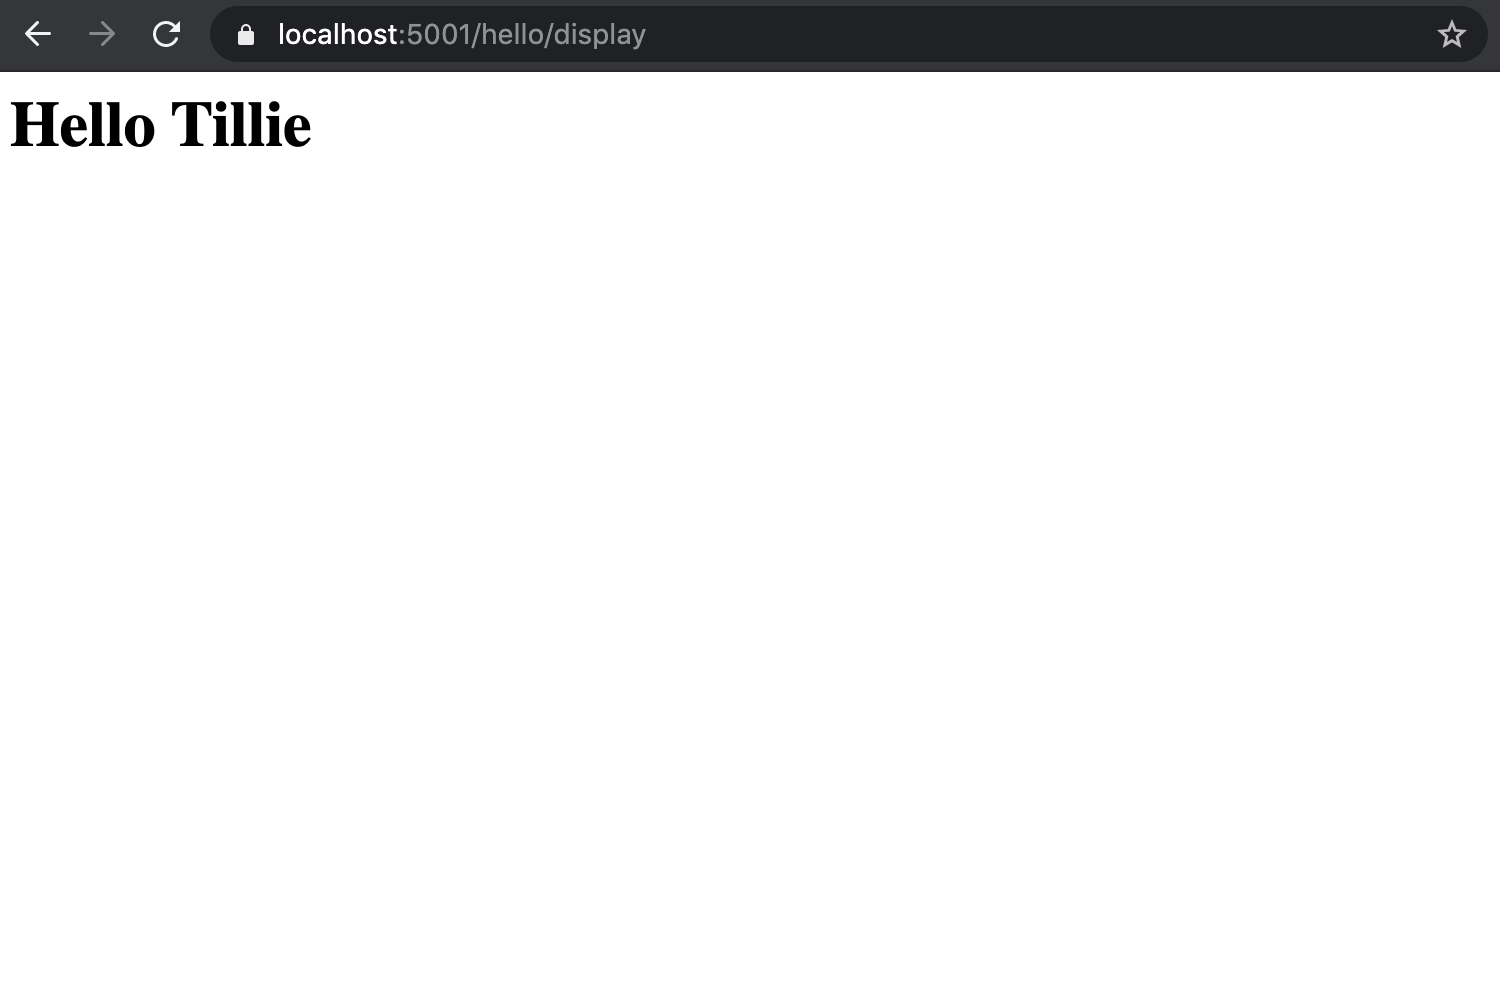
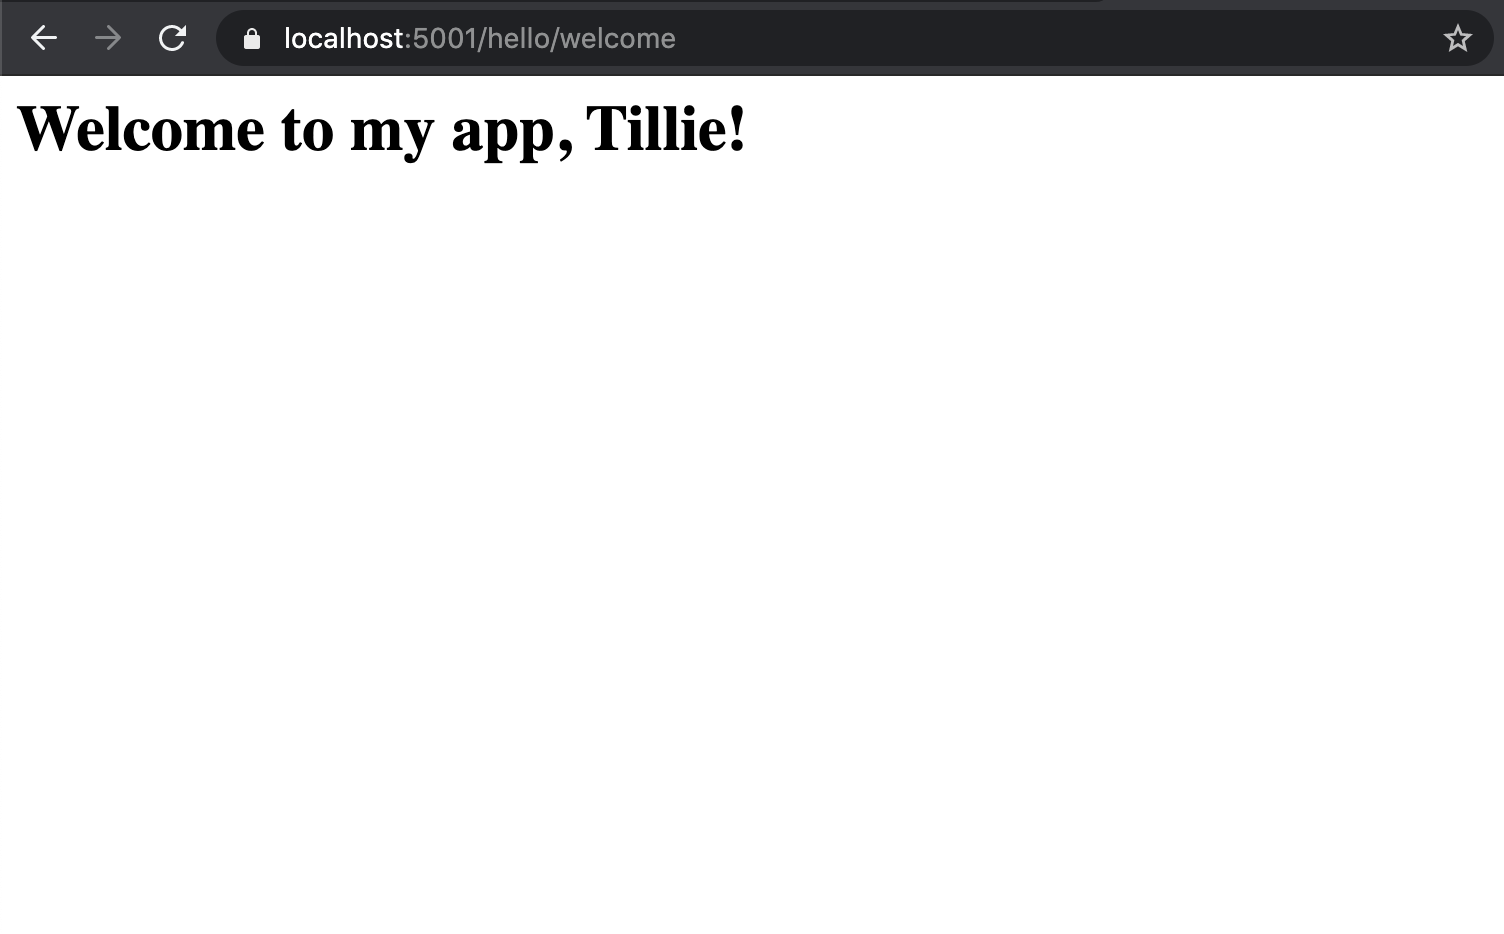
Additional edits

Changed region(s): [[0.0, 0.0, 1.0, 0.1863]]

diff --git a/src/chapters/aspdotnet-controllers-and-routes/controllers-forms.rst b/src/chapters/aspdotnet-controllers-and-routes/controllers-forms.rst
@@ -8,10 +8,8 @@ Sending Form Data - Video
 
 .. admonition:: Note
 
-   In your forked version of LaunchCode's `HelloASPDotNET <https://github.com/LaunchCodeEducation/HelloASPDotNET>`_, the starter code for this video is on the ``query-parameters`` branch.
-   The solution code for this video is on the ``forms`` branch.
-
-.. TODO: Change repo name and update to final code wording on previous page.   
+   If you ever want to verify what code you started this video with, the `starter code <https://github.com/LaunchCodeEducation/HelloASPDotNETDemo/tree/query-parameters>`_ for this video is on the ``query-parameters`` branch.
+   If you ever want to verify what code you end this video with, the `final code <https://github.com/LaunchCodeEducation/HelloASPDotNETDemo/tree/forms>`_ for this video is on the ``forms`` branch.  
 
 Sending Form Data - Text
 -------------------------
@@ -20,13 +18,14 @@ What if we want to send over some form data?
 To send data via a simple form in ASP.NET, we'll set things up like this:
 
 We have an action method that generates a form at index and responds to a ``GET`` request. 
+We will modify the ``Index()`` method we have already written like so and comment out any attributes we have been using:
 
 .. sourcecode:: csharp
    :linenos:
 
    public IActionResult Index()
    {
-      string html = "<form method='post' action='Hello/Display'>" +
+      string html = "<form method='post' action='/hello/welcome'>" +
          "<input type='text' name='name' />" +
          "<input type='submit' value='Greet Me!' />" +
          "</form>";
@@ -34,40 +33,28 @@ We have an action method that generates a form at index and responds to a ``GET`
       return Content(html, "text/html");
    }
 
-With conventional routing, we know that the ``Index()`` method currently responds to ``localhost:5001/Hello``.
-On form submission, we want to send the data down another path, ``/Hello/Display``.
-We need an action method for that to repond to the ``POST`` request upon form submission.
+With conventional routing, we know that the ``Index()`` method currently responds to ``localhost:5001/hello``.
+On form submission, we want to send the data down another path, ``/hello/welcome``, which we specified in the ``action`` attribute in the ``form`` tag.
+This is the path to our ``Welcome()`` method.
+On line 4 above, we have given the text input the same name as the argument of the ``Welcome()`` method, which happens to be ``name``.
+By giving the route to the ``Welcome()`` method in ``action``, specifying ``POST`` as the ``method`` attribute, and matching the argument to the input, we have set up the ``Welcome()`` method to handle the form submission.
 
-.. sourcecode:: csharp
-   :linenos:
-
-   public IActionResult Display(string name = "World")
-   {
-      return Content("<h1>Hello " + name + "!</h1>", "text/html");
-   }
-
-Now, you have a method that can handle the form submission.
-When the form submits, the input entered in the text box will be passed to the URL.
-This is why the ``Display()`` method above accepts a ``name`` argument.
-
-With the ``Index()`` method rewritten and a new ``Display()`` method, we can run our app and see what happens!
+With the ``Index()`` method rewritten and our ``Welcome()`` method handling form submission, we can run our app and see what happens!
 
 .. figure:: figures/filledoutform.png
    :alt: Webpage with filled out form 
 
    New form filled out with the name "Tillie"
 
-Once we hit *Greet Me*, the value of ``name``, ``"Tillie"``, is submitted to the ``Display()`` method.
+Once we hit *Greet Me*, the value of ``name``, ``"Tillie"``, is submitted to the ``Welcome()`` method.
 
 .. figure:: figures/displayformresult.png
    :alt: Webpage displaying the form result
 
-   A whole new page on our site!
+   The result of submitting the form
 
-With our form working, we can add some attribute routing to streamline the process and send our form data down a different route.
+With our form working, we can add some attribute routing to streamline our code and specify routes and request types.
 For the ``Index()`` method, we want the method to respond to a ``GET`` request at ``localhost:5001/helloworld``.
-
-.. TODO: Mess around with action url 
 
 .. sourcecode:: csharp
    :linenos:
@@ -76,7 +63,7 @@ For the ``Index()`` method, we want the method to respond to a ``GET`` request a
    [Route("/helloworld")]
    public IActionResult Index()
    {
-      string html = "<form method='post' action='/helloworld/display'>" +
+      string html = "<form method='post' action='/hello/welcome'>" +
          "<input type='text' name='name' />" +
          "<input type='submit' value='Greet Me!' />" +
          "</form>";
@@ -84,11 +71,9 @@ For the ``Index()`` method, we want the method to respond to a ``GET`` request a
       return Content(html, "text/html");
    }
 
-Now we also want to add attributes to the ``Display()`` method.
-``Display()`` needs to respond to a ``POST`` request so we will add an ``[HttpPost]`` attribute.
-We changed the value of ``action`` in our HTML form in the ``Index()`` method to ``'helloworld/display'``.
-In order for our form data to properly be sent over to the ``Display()`` method, we need to map the method to the route specified in ``action``.
-We will do so with a ``[Route("path")]`` attribute.
+Now we also want to add attributes to the ``Welcome()`` method.
+``Welcome()`` should respond to a ``POST`` request so we will add an ``[HttpPost]`` attribute.
+We also want to use a ``[Route("path")]`` attribute to specify the route to be ``localhost:5001/helloworld/welcome``.
 
 .. sourcecode:: csharp
    :linenos:
@@ -101,16 +86,22 @@ We will do so with a ``[Route("path")]`` attribute.
    }
 
 Now when we run our app, we can navigate to ``localhost:5001/helloworld`` and see our form.
-Once we fill out the form and hit *Greet Me!*, the app redirects to ``localhost:5001/helloworld/display`` and greets the user!
+Once we fill out the form and hit *Greet Me!*, the app redirects to ``localhost:5001/hello/welcome`` and breaks.
+We didn't update ``action`` in our ``<form>`` tag in the ``Index()`` method.
+Once we change the value of ``action`` to ``/helloworld/welcome``, we can re-run our app and see it fully functioning.
 
-.. TODO: Maybe add an admonition to say that methods can get data at same URL. We don't have to use a different URL!
+.. admonition:: Note
+
+   The ``Welcome()`` method can respond to a ``POST`` request and the ``Index()`` method can respond to a ``GET`` request at the same URL.
+   To make this happen, we change the route in the ``action`` attribute in the ``<form>`` tag and change the route in the ``[Route("path")]`` attribute above the ``Welcome()`` method to ``/helloworld``.
+   Re-running the app, we can submit the form and the page reloads to display our welcome message.
 
 Check Your Understanding
 ------------------------
 
 .. admonition:: Question
 
-   Which type of request is the ``Index()`` method going to respond to?
+   Which type of request should the ``Index()`` method respond to?
  
    a. ``GET`` request
       
@@ -124,7 +115,7 @@ Check Your Understanding
 
 .. admonition:: Question
 
-   Which type of request is the ``Display()`` method going to respond to?
+   Which type of request should the ``Welcome()`` method respond to?
  
    a. ``GET`` request
       
@@ -135,3 +126,9 @@ Check Your Understanding
    d. ``DELETE`` request
 
 .. ans: b
+
+.. admonition:: Question
+
+   True/False: two different action methods cannot respond to different request types at the same URL.
+
+.. ans: False, they can!

diff --git a/src/chapters/aspdotnet-controllers-and-routes/controllers-attributes.rst b/src/chapters/aspdotnet-controllers-and-routes/controllers-attributes.rst
@@ -1,27 +1,31 @@
-Streamling Your Code with Attribute Routing
-===========================================
+Cleaning Up Your Controllers
+============================
 
-Attribute Routing - Video
---------------------------
+So far, we have been adding attributes to our methods as we go along for each specific use case.
+However, now our controller is rather unorganized and full of commented out attributes.
+We can use a couple tips and tricks from attribute routing to clean this controller up.
+
+Cleaning Up the Controller - Video
+----------------------------------
 
 .. TODO: Add vid
 
 .. admonition:: Note
 
-   In your forked version of LaunchCode's `HelloASPDotNET <https://github.com/LaunchCodeEducation/HelloASPDotNET>`_, the starter code for this video is on the ``forms`` branch.
-   The solution code for this video is on the ``attribute-routing`` branch.
+   If you ever want to verify what code you started this video with, the `starter code <https://github.com/LaunchCodeEducation/HelloASPDotNETDemo/tree/forms>`_ for this video is on the ``forms`` branch.
+   If you ever want to verify what code you end this video with, the `final code <https://github.com/LaunchCodeEducation/HelloASPDotNETDemo/tree/attribute-routing>`_ for this video is on the ``attribute-routing`` branch.  
 
 .. TODO: Change repo name and update to final code wording on previous page.
 
 .. index:: ! attribute routing, ! attributes
 
-Attribute Routing - Text
-------------------------
+Cleaning Up the Controller - Text
+---------------------------------
 
 Once you have written several action methods within a class, you may notice some similar behavior.
 You may also want to expand upon the behavior that different action methods can make use of.
 So far, we have been adding multiple different ``[Route("path")]`` attributes to each method to get every method to respond to a path that starts with ``localhost:5001/helloworld``.
-The ``Welcome()`` method and ``Display()`` method also serve similar purposes and feel a bit repetitive.
+We also want to use the ``Welcome()`` method to respond to ``GET``requests and ``POST`` requests, not just one or the other.
 Time to DRY our code!
 
 Class-Level Attributes
@@ -49,7 +53,7 @@ Now that we have added that ``[Route("/helloworld")]`` above the class, we can s
    [HttpGet]
    public IActionResult Index()
    {
-      string html = "<form method='post' action='helloworld/display'>" +
+      string html = "<form method='post' action='/helloworld/welcome'>" +
             "<input type='text' name='name' />" +
             "<input type='submit' value='Greet Me!' />" +
             "</form>";
@@ -61,44 +65,44 @@ Since we want to map ``Index()`` to the path ``localhost:5001/helloworld``, we r
 If we hadn't, we would have inadvertently mapped the ``Index()`` method to the path, ``localhost:5001/helloworld/helloworld``.
 We want to leave the ``[HttpGet]`` attribute above the ``Index()`` method so we can still specify that ``Index()`` responds to ``GET`` requests.
 
-Now that just leaves us the ``Welcome()`` and ``Display()`` methods!
+Now that just leaves us the ``Welcome()`` method!
 
 One Method, Two Request Types
------------------------------
+^^^^^^^^^^^^^^^^^^^^^^^^^^^^^
 
-Despite ``Welcome()`` and ``Display()`` responding to different request types, the two methods return very similar strings of HTML.
+When we modified the ``Welcome()`` method to respond to a ``POST`` request, we commented out the attributes that we added when we were working with route parameters.
 With attributes, we can DRY our code and create one method that can respond to two different request types at two different routes.
 Before we begin, we should note that we can add route info directly to ``[HttpGet]`` and ``[HttpPost]``.
 
 .. sourcecode:: csharp
    :linenos:
 
-   [HttpPost("display")]
-   public IActionResult Display(string name = "World")
+   [HttpPost("welcome")]
+   public IActionResult Welcome(string name = "World")
    {
-      return Content("<h1>Hello " + name + "!</h1>", "text/html");
+      return Content("<h1>Welcome to my app, " + name + "!</h1>", "text/html");
    }
 
 On line 1, we modified the ``[HttpPost]`` attribute to include the end of our path.
-Now ``Display()`` still responds to ``POST`` requests at ``localhost:5001/helloworld/display``.
+Now ``Welcome()`` still responds to ``POST`` requests at ``localhost:5001/helloworld/welcome``.
 However, this is just the beginning of us DRYing our code.
 
-We want to comment out the ``Welcome()`` method and add another attribute to ``Display()`` so that we have one method responding to two different types of HTTP requests at two different paths.
-We can add an ``[HttpGet]`` attribute to ``Display()`` to do so.
+We also want ``Welcome()`` to respond to ``GET`` requests.
+We can modify an ``[HttpGet]`` attribute to do so.
 
 .. sourcecode:: csharp
    :linenos:
 
    [HttpGet("welcome/{name?}")]
-   [HttpPost("display")]
-   public IActionResult Display(string name = "World")
+   [HttpPost("welcome")]
+   public IActionResult Welcome(string name = "World")
    {
-      return Content("<h1>Hello " + name + "!</h1>", "text/html");
+      return Content("<h1>Welcome to my app, " + name + "!</h1>", "text/html");
    }
 
-We added an ``[HttpGet]`` attribute on line 1 with a different path.
-Now ``Display()`` can respond to ``GET`` requests at ``localhost:5001/helloworld/welcome``, ``localhost:5001/helloworld/welcome?name=Tillie``, and ``localhost:5001/helloworld/welcome/Tille``.
-``Display()`` can also still respond to the ``POST`` request at ``localhost:5001/helloworld/display`` upon submission of the form.
+We added a different path to the ``[HttpGet]`` attribute on line 1.
+Now ``Welcome()`` can respond to ``GET`` requests at ``localhost:5001/helloworld/welcome``, ``localhost:5001/helloworld/welcome?name=Tillie``, and ``localhost:5001/helloworld/welcome/Tille``.
+``Welcome()`` can also still respond to the ``POST`` request at ``localhost:5001/helloworld/welcome`` upon submission of the form.
 
 Now when we run our code, our app will still have the same functionalities, but now we have a more refined and organized code base!
 

diff --git a/src/chapters/aspdotnet-controllers-and-routes/controllers-parameters.rst b/src/chapters/aspdotnet-controllers-and-routes/controllers-parameters.rst
@@ -30,8 +30,6 @@ Controllers and Query Parameters - Video
    If you ever want to verify what code you started this video with, the `starter code <https://github.com/LaunchCodeEducation/HelloASPDotNETDemo/tree/static-responses>`_ for this video is on the ``static-responses`` branch.
    If you ever want to verify what code you end this video with, the `final code <https://github.com/LaunchCodeEducation/HelloASPDotNETDemo/tree/query-parameters>`_ for this video is on the ``query-parameters`` branch.
 
-.. TODO: Check branches from query onward for spare endpoint in Startup.cs
-
 Controllers and Parameters - Text
 ---------------------------------
 
@@ -56,9 +54,9 @@ The ``Welcome()`` method has one argument, ``name``. However, when we run the ap
 .. figure:: figures/nodefaultvalue.png
    :alt: Simple webpage that only displays Welcome to my app.
 
-``name`` does not receive a value from anywhere, so to start, we need to give ``name`` a value.
-We can pass a value to name with a query string. ``name`` will act as the key and the value will be ``"Tillie"``.
-To do so, let's navigate to ``localhost:5001/hello/welcome?name=Tillie``. 
+``name`` does not receive a value from anywhere, so to start, we need to pass ``name`` a value.
+We can do so with a query string. ``name`` will act as the key and the value will be ``"Tillie"``.
+Let's navigate to ``localhost:5001/hello/welcome?name=Tillie``. 
 Now the webpage displays a simple string of HTML that says "Welcome to my app, Tillie!".
 
 .. figure:: figures/valuegiventoname.png
@@ -135,15 +133,13 @@ If we do provide a query string, we will see the resulting page:
 Path Variables
 ^^^^^^^^^^^^^^
 
-.. TODO: Focus on the conceptual differences and provide more explanation on why that route works for two very different things
-
-Earlier in the chapter, we briefly mentioned that some controller methods could take in parameters in the form of a section of a URL path.
+Above, we briefly mentioned that some controller methods could take in parameters in the form of a section of a URL path.
 These types of parameters are called **path variables**.
 Path variables differ from query strings in that the data is not passed in as a key-value pair and that a path variable is a portion of the URL path.
 Query strings are a separate component of a URL that occurs after a ``?`` and are separate from the path.
 When using a path variable, instead of typing the name of a variable into the path, we type the value we want to pass to the action method at that route.
 
-When we added the ``[Route("/helloworld/welcome/{name?}")]`` attribute to the ``Welcome()`` method, we made it possible for the ``Welcome()`` method to respond to ``GET`` requests at ``localhost:5001/helloworld/welcome/Tillie``.
+When we added the ``[Route("/helloworld/welcome/{name?}")]`` attribute to the ``Welcome()`` method, we made it possible for the ``Welcome()`` method to respond to requests at ``localhost:5001/helloworld/welcome/Tillie``.
 In that route, ``name`` is used as a path variable and passed the value of ``Tillie`` in the path, displaying the following webpage.
 
 .. figure:: figures/pathvariables.png
@@ -151,7 +147,7 @@ In that route, ``name`` is used as a path variable and passed the value of ``Til
 
    The result when we use ``name`` as a path variable
 
-Diving into the mechanics of how this worked, we remember that enclosing ``name`` in curly braces specifies that the we want to use the value of ``name``, not the word "word".
+Diving into the mechanics of how this worked, we remember that enclosing ``name`` in curly braces specifies that we want to use the value of ``name``, not the word "name".
 While path variables and query strings are drastically different, the two share a similarity.
 Both path variables and query strings allow us to give an action method a value for a parameter as part of a URL.
 This is because ``name`` is a **route parameter**.
